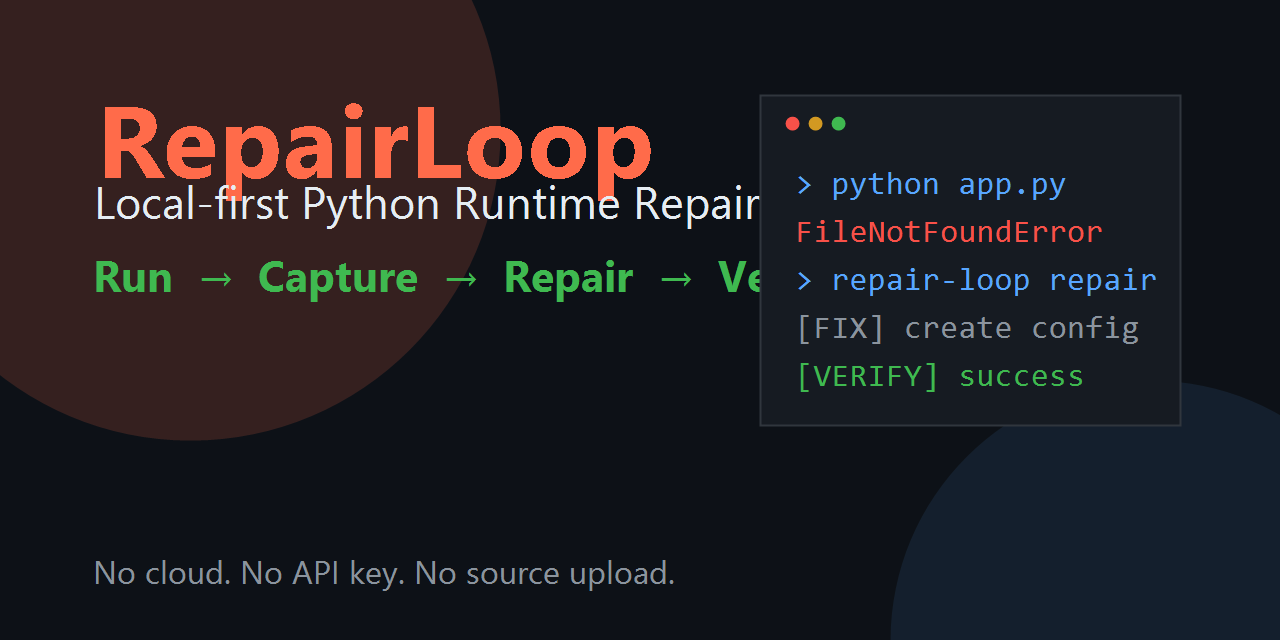
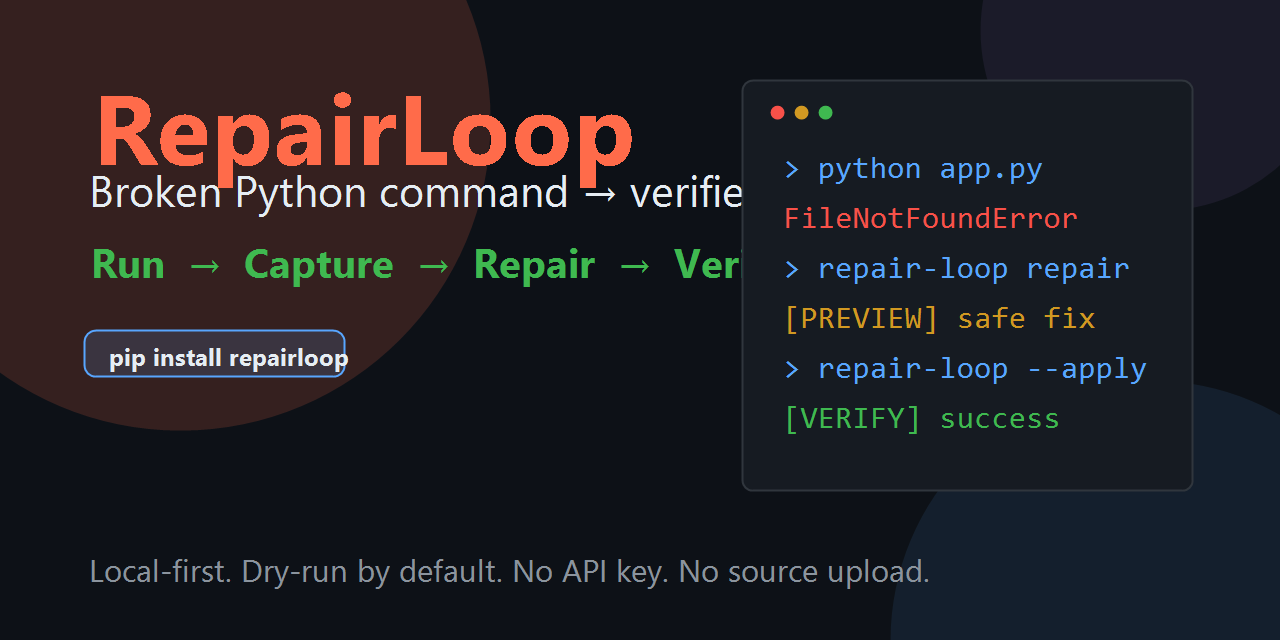
Improve RepairLoop demo assets

diff --git a/README.md b/README.md
@@ -21,15 +21,17 @@ No cloud. No API key. No source upload. No full-project rewrite.
 BROKEN PYTHON COMMAND → REAL CRASH → MINIMAL FIX → RERUN → VERIFIED
 ```
 
-## 10-Second Demo
+## 30-Second Demo
 
-![RepairLoop 10-second demo](docs/assets/repairloop-demo.gif)
+![RepairLoop 30-second demo](docs/assets/repairloop-demo.gif)
 
 Watch the MP4 version: [docs/assets/repairloop-demo.mp4](docs/assets/repairloop-demo.mp4)
 
+Vertical demo for social posts: [docs/assets/repairloop-demo-vertical.mp4](docs/assets/repairloop-demo-vertical.mp4)
+
 Social preview image: [docs/assets/repairloop-social-preview.png](docs/assets/repairloop-social-preview.png)
 
-That is the whole idea: **run the broken thing, repair the real failure, verify the result.**
+In 30 seconds, the demo shows the full RepairLoop story: **a real Python crash, a dry-run repair preview, an explicit apply step, and verification by rerunning the original command.**
 
 ## Quick Example
 